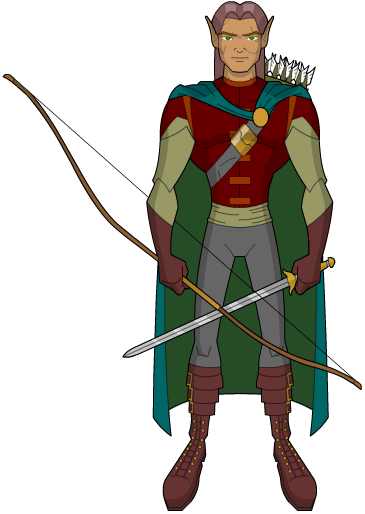
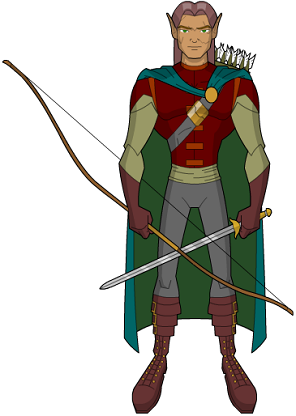
resizing matt2, updating journal

diff --git a/dalelands/index.html b/dalelands/index.html
@@ -62,7 +62,7 @@
       </div>
       <div class="char">
         <div class="figure">
-          <image src="matt.png"/>
+          <image src="matt2.png"/>
           <h3>Matt</h3>
           <h5>- as -</h5>
           <h3 class="name">Willow</h3>
